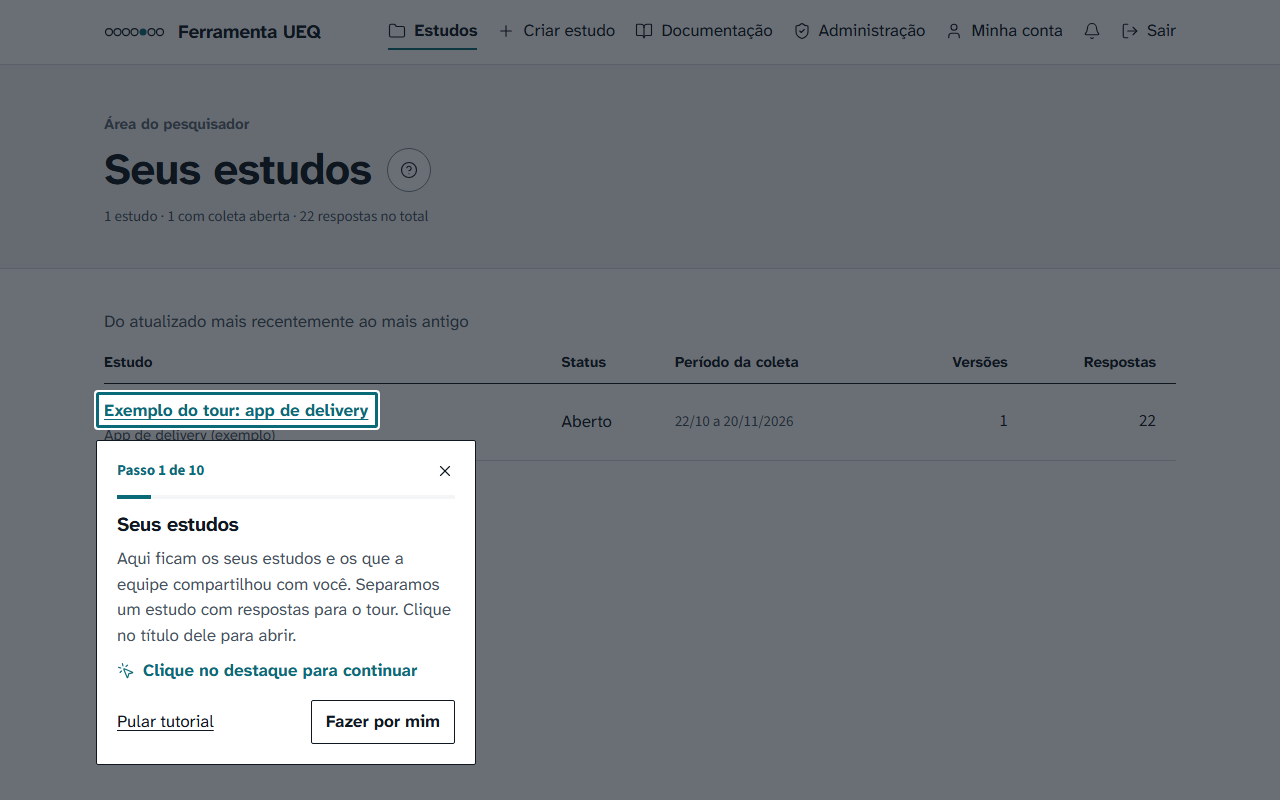
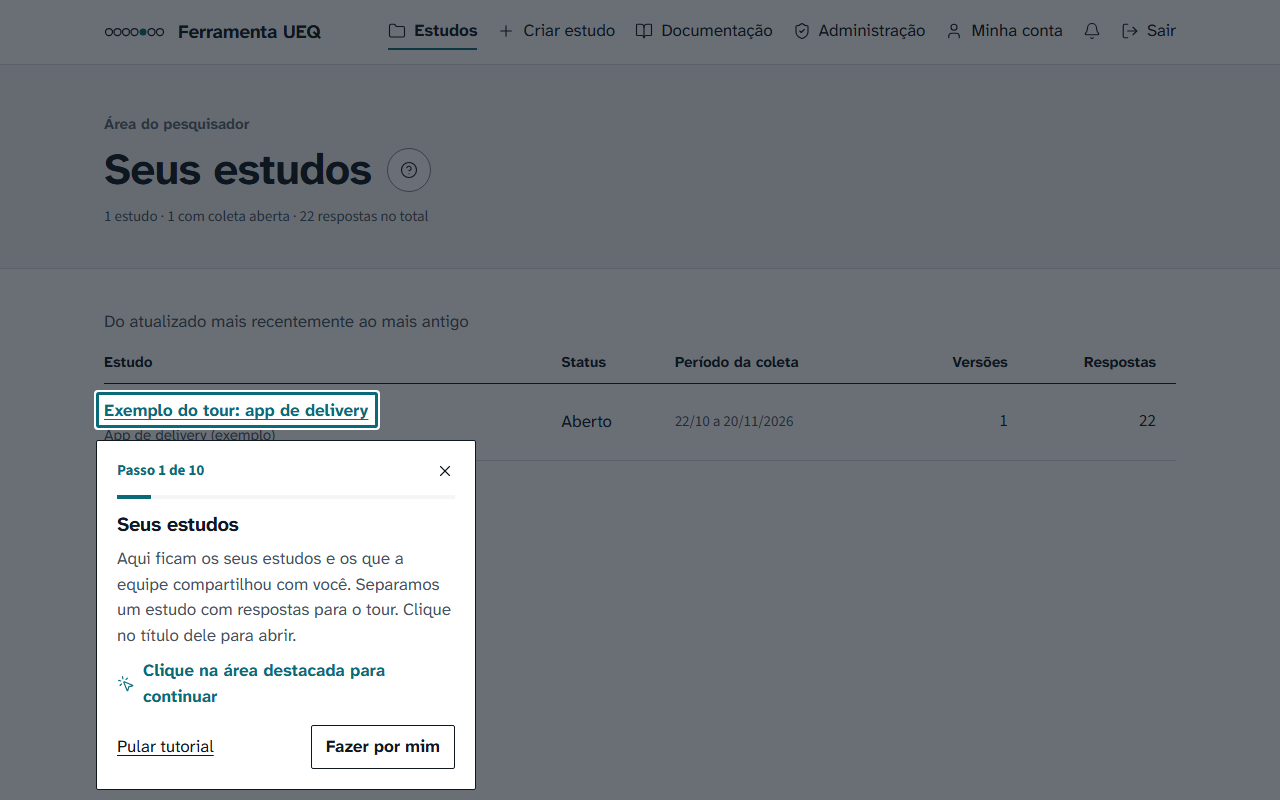
fixa o tratamento formal na tradução com uma frase-modelo por idioma
- O glossário de cada idioma traz o tratamento e uma frase-modelo
- A revisão trata qualquer outro tratamento como erro
- Mais termos fixos: linha, informe, remover e "do UEQ"
- Reescreve três frases do tour e da ajuda que saíam estranhas, com o protótipo R29
- Migration apaga só o espanhol, para refazê-lo assim

Changed region(s): [[0.0625, 0.8125, 0.375, 1.0]]

diff --git a/src/traducao/claude.ts b/src/traducao/claude.ts
@@ -33,6 +33,7 @@ const GLOSSARIO = [
   "- suspeita: adjetivo de uma participação ou resposta possivelmente dada sem atenção (flagged as suspicious). Nunca o substantivo \"desconfiança\" nem uma acusação.",
   "- análise: o cálculo dos resultados. Tirar da análise e devolver à análise não apagam nada.",
   "- tour: a visita guiada do primeiro acesso. pular: deixar o tour de lado (skip).",
+  "- linha: uma linha de arquivo CSV ou de tabela (row). informe: pedido para a pessoa preencher um dado. remover: tirar um item da lista.",
   "- planilha: planilha eletrônica (spreadsheet). prévia: como vai ficar (preview). termo de consentimento: o texto que o participante aceita antes de responder.",
   "- faixa etária: grupo de idade. faixa do benchmark: Excelente, Bom e as demais.",
   "- baixar: fazer o download de um arquivo. Nunca cancelar, reduzir ou dar baixa.",
@@ -48,7 +49,7 @@ const GLOSSARIO = [
 const REGRAS_INTERFACE = [
   "Regras:",
   "- O sentido é o mais importante. Nunca troque, omita ou acrescente uma ideia, e a frase não pode ficar ambígua.",
-  "- Trate a pessoa sempre da mesma forma, no registro formal do idioma (usted, Sie, vous e equivalentes). Nunca misture tratamentos.",
+  "- Todo texto, inclusive botões, títulos, avisos e ajuda, trata a pessoa pelo registro formal do idioma: usted em espanhol (su, haga, tiene; nunca tú, tu, haz, tienes), Sie em alemão, vous em francês, Lei em italiano, e o equivalente nos demais. Nos \"termos\", a frase que começa com o verbo clicar é o modelo desse tratamento: siga-o em tudo. Em idioma sem essa distinção, use a forma neutra e educada.",
   "- Concorde gênero e número com o substantivo a que o texto se refere, mesmo que ele esteja em outro rótulo da mesma tela.",
   "- Não presuma o gênero de quem lê: quando o idioma permitir, prefira uma forma neutra.",
   "- Use uma só variante regional do idioma, a mais neutra, e sempre a mesma palavra para o mesmo conceito.",
@@ -105,7 +106,8 @@ const INSTRUCOES_REVISAO: Record<Tipo, string> = {
     "- sentido trocado, ideia omitida ou acrescentada, ou frase ambígua;",
     "- palavra que deveria estar traduzida e ficou em português;",
     "- erro de gênero, número ou gramática;",
-    "- tratamento diferente do registro formal do idioma, ou termo fora do glossário.",
+    "- tratamento diferente do registro formal do idioma: é sempre um erro, corrija mesmo que o resto esteja certo;",
+    "- termo fora do glossário ou diferente dos \"termos\" já definidos.",
     GLOSSARIO,
     REGRAS_INTERFACE,
     "Devolva em \"correcoes\" só os itens que precisam mudar, com a tradução corrigida inteira. Se estiver tudo certo, devolva a lista vazia. Não reescreva por gosto.",

diff --git a/src/lib/ajuda.ts b/src/lib/ajuda.ts
@@ -149,7 +149,7 @@ export const AJUDA = {
       {
         titulo: m("Respostas suspeitas"),
         texto:
-          m("A ferramenta marca como suspeita quem respondeu de forma inconsistente em 3 ou mais escalas, ou marcou mais de 15 itens na mesma posição (regras do Handbook do UEQ). Suspeita é só um alerta: quem decide é você."),
+          m("A ferramenta marca como suspeita a resposta de quem respondeu de forma inconsistente em 3 ou mais escalas, ou marcou mais de 15 itens na mesma posição (regras do Handbook do UEQ). Suspeita é só um alerta: quem decide é você."),
       },
       {
         titulo: m("Tirar ou devolver à análise"),

diff --git a/src/componentes/tutorial/passos.ts b/src/componentes/tutorial/passos.ts
@@ -75,7 +75,7 @@ export const PASSOS: readonly Passo[] = [
     alvo: () => '[data-tutorial="participacoes"]',
     titulo: m("Respostas suspeitas"),
     texto:
-      m("Quem respondeu de forma contraditória ou marcou quase tudo igual aparece como suspeito. Você decide, na coluna “Na análise”, se a resposta entra no cálculo. Nada é apagado."),
+      m("A resposta de quem respondeu de forma contraditória ou marcou quase tudo igual aparece como suspeita. Você decide, na coluna “Na análise”, se a resposta entra no cálculo. Nada é apagado."),
     modo: "proximo",
   },
   {

diff --git a/src/componentes/tutorial/Tutorial.tsx b/src/componentes/tutorial/Tutorial.tsx
@@ -322,7 +322,7 @@ export function Tutorial({ primeiroAcesso, pesquisadorId }: { primeiroAcesso: bo
             {naPagina && passo.modo === "clique" && retangulo && (
               <p className={estilos.dica}>
                 <MousePointerClick size={18} strokeWidth={1.5} aria-hidden="true" />
-                <span>{t("Clique no destaque para continuar")}</span>
+                <span>{t("Clique na área destacada para continuar")}</span>
               </p>
             )}
             <div className={estilos.acoes}>

diff --git a/src/traducao/rodadas.ts b/src/traducao/rodadas.ts
@@ -3,6 +3,13 @@
 
 // Termos que precisam sair iguais em todo o catálogo. O sentido de cada um está nas instruções de claude.ts
 export const TERMOS_DO_GLOSSARIO = [
+  // A frase-modelo fixa o tratamento: sem ela, um lote trata por "tú" e o outro por "usted"
+  "você",
+  "Clique no seu estudo, confira os seus dados e salve.",
+  "do UEQ",
+  "linha",
+  "informe",
+  "remover",
   "estudo",
   "coleta",
   "participação",

diff --git a/docs/idiomas.md b/docs/idiomas.md
@@ -81,6 +81,7 @@ Como funciona:
 2. Ao abrir uma tela em outro idioma, o servidor lê as traduções da tabela `traducao`. O que falta sai em português, e os lotes de 60 textos, agrupados por tela, rodam depois da resposta, com até 6 ao mesmo tempo, pelo modelo definido em `src/traducao/claude.ts` (Claude Haiku 5.5, o mais barato).
    - A tradução anda em três etapas, para os lotes não escolherem palavras diferentes para a mesma coisa: primeiro o glossário do idioma (`src/traducao/rodadas.ts`), guardado na tabela; depois os rótulos curtos; por fim os textos longos, que recebem a tradução dos botões que citam.
    - Cada texto vai com o arquivo que o usa e com as instruções sobre o sentido dos termos, para "baixar" não virar "dar baixa".
+   - O glossário traz uma frase-modelo que fixa o tratamento formal do idioma, e a revisão trata qualquer outro tratamento como erro.
    - O nome "Ferramenta UEQ" viaja como marcador e sai igual em todos os idiomas.
    - Uma segunda leitura compara original e tradução e corrige o que mudou de sentido.
    - Tradução com `{marcadores}` diferentes do original é descartada: o texto fica em português.
